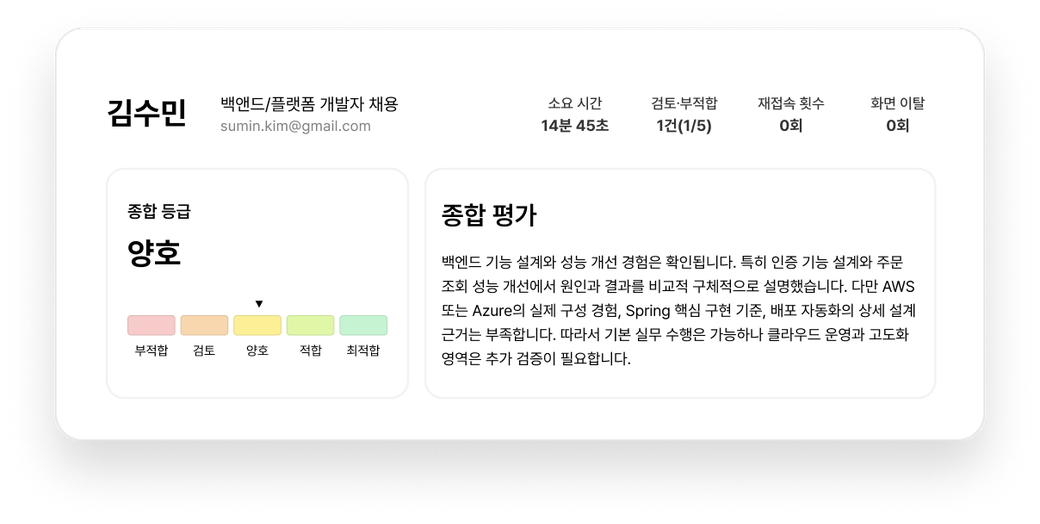
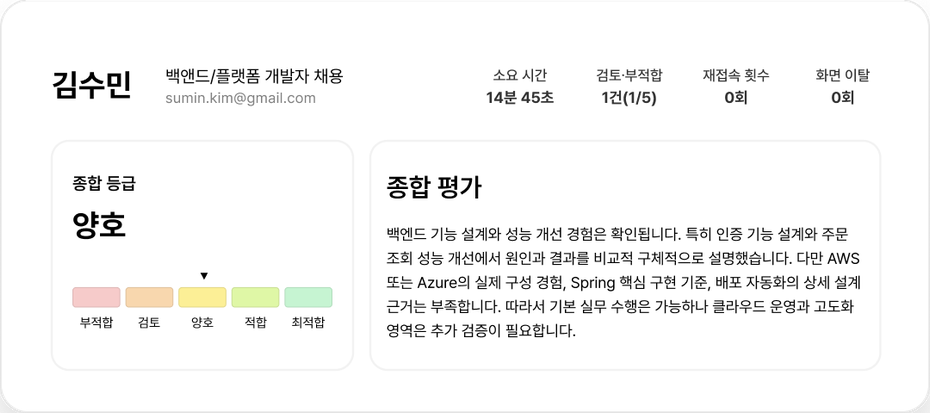
그 결정 섹션: 리포트 이미지의 라운드 박스·그림자 제거(이미지 그림자여백 크롭 + webp소스/CSS글로우 제거, 치수 갱신)

diff --git a/app/page.tsx b/app/page.tsx
@@ -198,7 +198,7 @@ export default function HomePage() {
 
           <div className="how-rows">
             <div className="how-row">
-              <div className="hr-media"><picture><source srcSet="/report-interview-summary.webp" type="image/webp" /><img className="hr-img" src="/report-interview-summary.png" alt="AI면접 리포트 — 인터뷰 내용 요약과 인터뷰 비디오" width={1040} height={618} loading="lazy" /></picture></div>
+              <div className="hr-media"><img className="hr-img" src="/report-interview-summary.png" alt="AI면접 리포트 — 인터뷰 내용 요약과 인터뷰 비디오" width={930} height={507} loading="lazy" /></div>
               <div className="hr-info">
                 <span className="hr-eyebrow">리포트 01</span>
                 <h3>인터뷰 요약</h3>
@@ -221,10 +221,10 @@ export default function HomePage() {
                   <li>후보 간 객관적 비교</li>
                 </ul>
               </div>
-              <div className="hr-media"><picture><source srcSet="/report-overall-grade.webp" type="image/webp" /><img className="hr-img" src="/report-overall-grade.png" alt="AI면접 리포트 — 종합 등급(양호)과 종합 평가" width={1040} height={524} loading="lazy" /></picture></div>
+              <div className="hr-media"><img className="hr-img" src="/report-overall-grade.png" alt="AI면접 리포트 — 종합 등급(양호)과 종합 평가" width={930} height={413} loading="lazy" /></div>
             </div>
             <div className="how-row">
-              <div className="hr-media"><img className="hr-img" src="/report-competency.png" alt="AI면접 리포트 — 역량 평가 레이더 차트와 항목별 등급" width={1208} height={868} loading="lazy" /></div>
+              <div className="hr-media"><img className="hr-img" src="/report-competency.png" alt="AI면접 리포트 — 역량 평가 레이더 차트와 항목별 등급" width={1080} height={740} loading="lazy" /></div>
               <div className="hr-info">
                 <span className="hr-eyebrow">리포트 03</span>
                 <h3>역량평가</h3>
@@ -247,7 +247,7 @@ export default function HomePage() {
                   <li>합류 후 온보딩에도 활용</li>
                 </ul>
               </div>
-              <div className="hr-media"><img className="hr-img" src="/report-strength.png" alt="AI면접 리포트 — 강점·약점 분석" width={1208} height={868} loading="lazy" /></div>
+              <div className="hr-media"><img className="hr-img" src="/report-strength.png" alt="AI면접 리포트 — 강점·약점 분석" width={1080} height={740} loading="lazy" /></div>
             </div>
           </div>
 

diff --git a/app/landing.css b/app/landing.css
@@ -199,10 +199,9 @@
   .hr-points{list-style:none;margin:20px 0 0;display:grid;gap:11px}
   .hr-points li{position:relative;padding-left:28px;font-size:15.5px;color:var(--ink);font-weight:500;line-height:1.5}
   .hr-points li::before{content:"\f058";font-family:"Font Awesome 6 Free";font-weight:900;position:absolute;left:0;top:1px;color:var(--blue);font-size:15px}
-  /* 리포트 이미지: 투명 PNG(자체 그림자 포함). 더 크게 + 뒤에 은은한 블루 글로우로 깊이감 */
+  /* 리포트 이미지: 그림자·박스 없이 플랫하게(이미지 그림자 여백은 크롭으로 제거됨) */
   .hr-media{position:relative;width:100%;max-width:700px;margin-inline:auto}
-  .hr-media::before{content:"";position:absolute;inset:-8% -6%;z-index:0;background:radial-gradient(58% 58% at 50% 46%, rgba(46,108,240,.13), rgba(46,108,240,0) 70%);pointer-events:none}
-  .hr-img{position:relative;z-index:1;width:100%;height:auto;display:block}
+  .hr-img{display:block;width:100%;height:auto}
   /* 이미지가 오른쪽인 짝수 행(텍스트 좌·이미지 우)은 큰 컬럼을 오른쪽(이미지)에 둬 좌우 행 이미지 크기를 통일 */
   @media(min-width:881px){
     .how-row:nth-child(even){grid-template-columns:minmax(0,0.88fr) minmax(0,1.12fr)}
